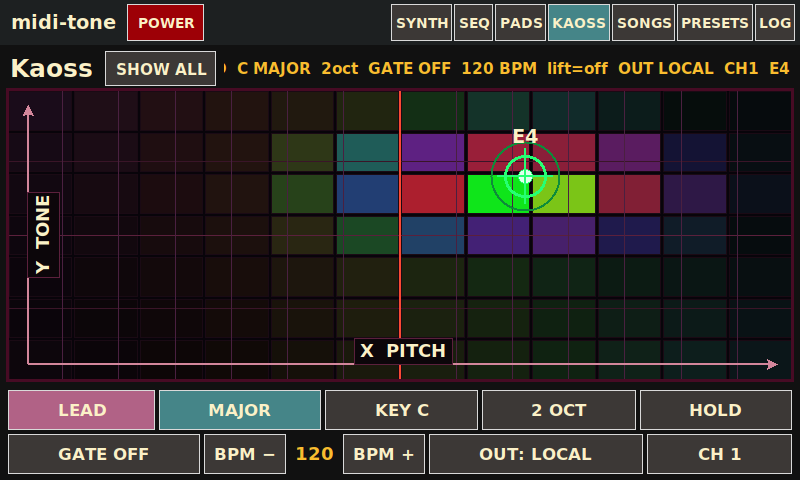
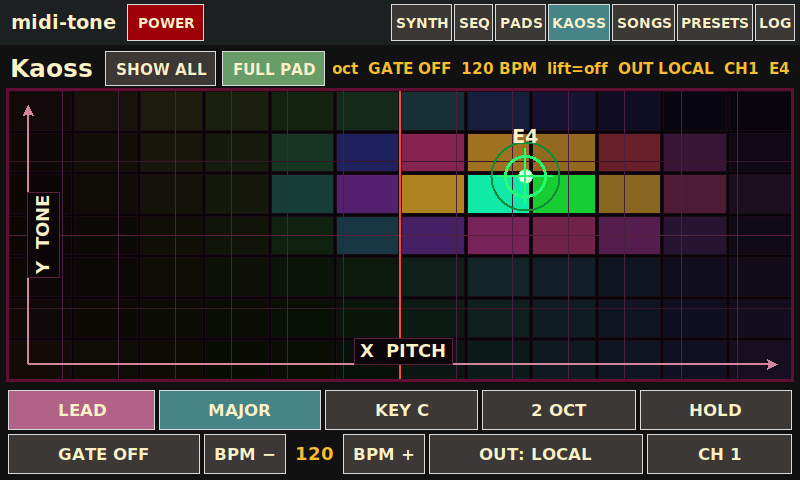
Put the FULL PAD exit rail on the top edge.
Pack order had parked HOLD TO EXIT under the pad. The rail now
packs above the canvas, and the settings screenshot shows FULL PAD.

Changed region(s): [[0.0, 0.0938, 1.0, 0.8125]]

diff --git a/tools/midi-tone/midi_tone.py b/tools/midi-tone/midi_tone.py
@@ -7612,8 +7612,10 @@ class MidiToneApp:
             self._kaoss_header.pack_forget()
         if self._kaoss_footer is not None:
             self._kaoss_footer.pack_forget()
-        if self._kaoss_exit_bar is not None:
+        if self._kaoss_exit_bar is not None and self._kaoss_canvas is not None:
+            self._kaoss_canvas.pack_forget()
             self._kaoss_exit_bar.pack(side=tk.TOP, fill=tk.X)
+            self._kaoss_canvas.pack(fill=tk.BOTH, expand=True)
         self._kaoss_paint_exit_bar(holding=False)
         self._kaoss_draw_grid()
         self._kaoss_arm_viz()
